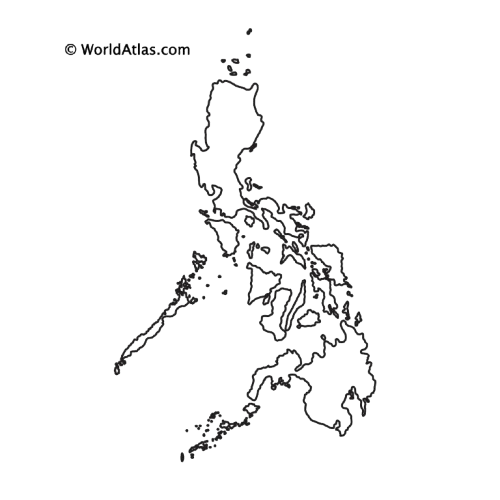
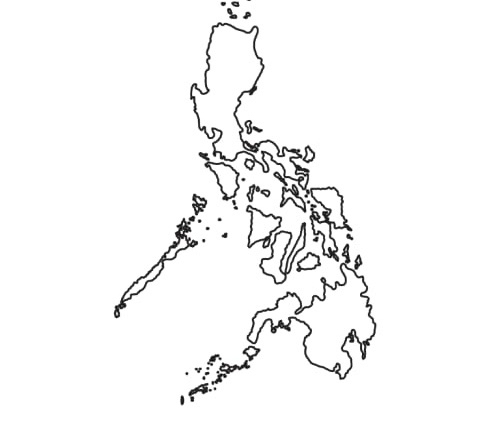
feat: update map image and reposition pin
Replace map image and adjust pin location; add tree-shaped close button

Changed region(s): [[0.12, 0.0, 0.75, 0.9391]]

diff --git a/public/site/index.html b/public/site/index.html
@@ -61,7 +61,7 @@
           <!-- SVG overlay for tree pin only -->
           <svg class="ph-map-pin-overlay" viewBox="0 0 100 100" xmlns="http://www.w3.org/2000/svg">
             <!-- Tree Pin at Mt. Pamitinan (Rizal, northeast of Manila on Luzon) -->
-            <g class="map-pin" id="map-pin" transform="translate(52, 29)">
+            <g class="map-pin" id="map-pin" transform="translate(56, 31)">
               <!-- Pulse ring animation -->
               <circle class="pin-pulse" cx="0" cy="2" r="2" fill="none" stroke="#8EB09A" stroke-width="0.6" opacity="0.6"/>
               
@@ -82,7 +82,7 @@
             </g>
 
             <!-- Label for Mt. Pamitinan -->
-            <text x="58" y="28" class="pin-label" style="font-size:3px;">Mt. Pamitinan</text>
+            <text x="62" y="30" class="pin-label" style="font-size:3px;">Mt. Pamitinan</text>
           </svg>
         </div>
       </div>
@@ -92,8 +92,18 @@
   <!-- ===== MAP SIDE PANEL (guide panel) ===== -->
   <div class="map-panel-overlay" id="map-panel-overlay"></div>
   <div class="map-panel" id="map-panel">
-    <button class="map-panel-close" id="map-panel-close" aria-label="Close guide">
-      <svg xmlns="http://www.w3.org/2000/svg" width="20" height="20" viewBox="0 0 24 24" fill="none" stroke="currentColor" stroke-width="2" stroke-linecap="round" stroke-linejoin="round"><path d="M18 6 6 18"/><path d="m6 6 12 12"/></svg>
+    <button class="map-panel-close tree-close-btn" id="map-panel-close" aria-label="Close guide">
+      <svg xmlns="http://www.w3.org/2000/svg" width="28" height="28" viewBox="0 0 28 28" fill="none">
+        <!-- Tree trunk -->
+        <rect x="12.5" y="19" width="3" height="5" rx="1" fill="#6B4226"/>
+        <!-- Tree canopy layers -->
+        <polygon points="14,4 8,14 20,14" fill="#4B6B55"/>
+        <polygon points="14,7 9.5,15 18.5,15" fill="#5a8a6a"/>
+        <polygon points="14,3 10,12 18,12" fill="#8EB09A"/>
+        <!-- Small X overlay hint -->
+        <line x1="11" y1="9" x2="17" y2="15" stroke="#101a14" stroke-width="1.5" stroke-linecap="round"/>
+        <line x1="17" y1="9" x2="11" y2="15" stroke="#101a14" stroke-width="1.5" stroke-linecap="round"/>
+      </svg>
     </button>
     <div class="map-panel-scroll">
       <!-- Trail image -->

diff --git a/public/site/style.css b/public/site/style.css
@@ -329,21 +329,26 @@ ul { list-style: none; }
   top: 16px;
   right: 16px;
   z-index: 5;
-  width: 36px;
-  height: 36px;
+  width: 42px;
+  height: 42px;
   display: flex;
   align-items: center;
   justify-content: center;
   border-radius: 50%;
-  background: var(--bg);
+  background: rgba(16, 26, 20, 0.85);
   border: 1px solid var(--border);
   color: var(--fg);
-  transition: background 0.3s, transform 0.2s;
+  transition: background 0.3s, transform 0.3s;
 }
 
 .map-panel-close:hover {
-  background: var(--primary-dark);
-  transform: scale(1.05);
+  background: rgba(16, 26, 20, 0.95);
+  transform: scale(1.1) rotate(-8deg);
+}
+
+/* Tree close button specific */
+.tree-close-btn svg {
+  filter: drop-shadow(0 1px 2px rgba(0,0,0,0.3));
 }
 
 .map-panel-scroll {
